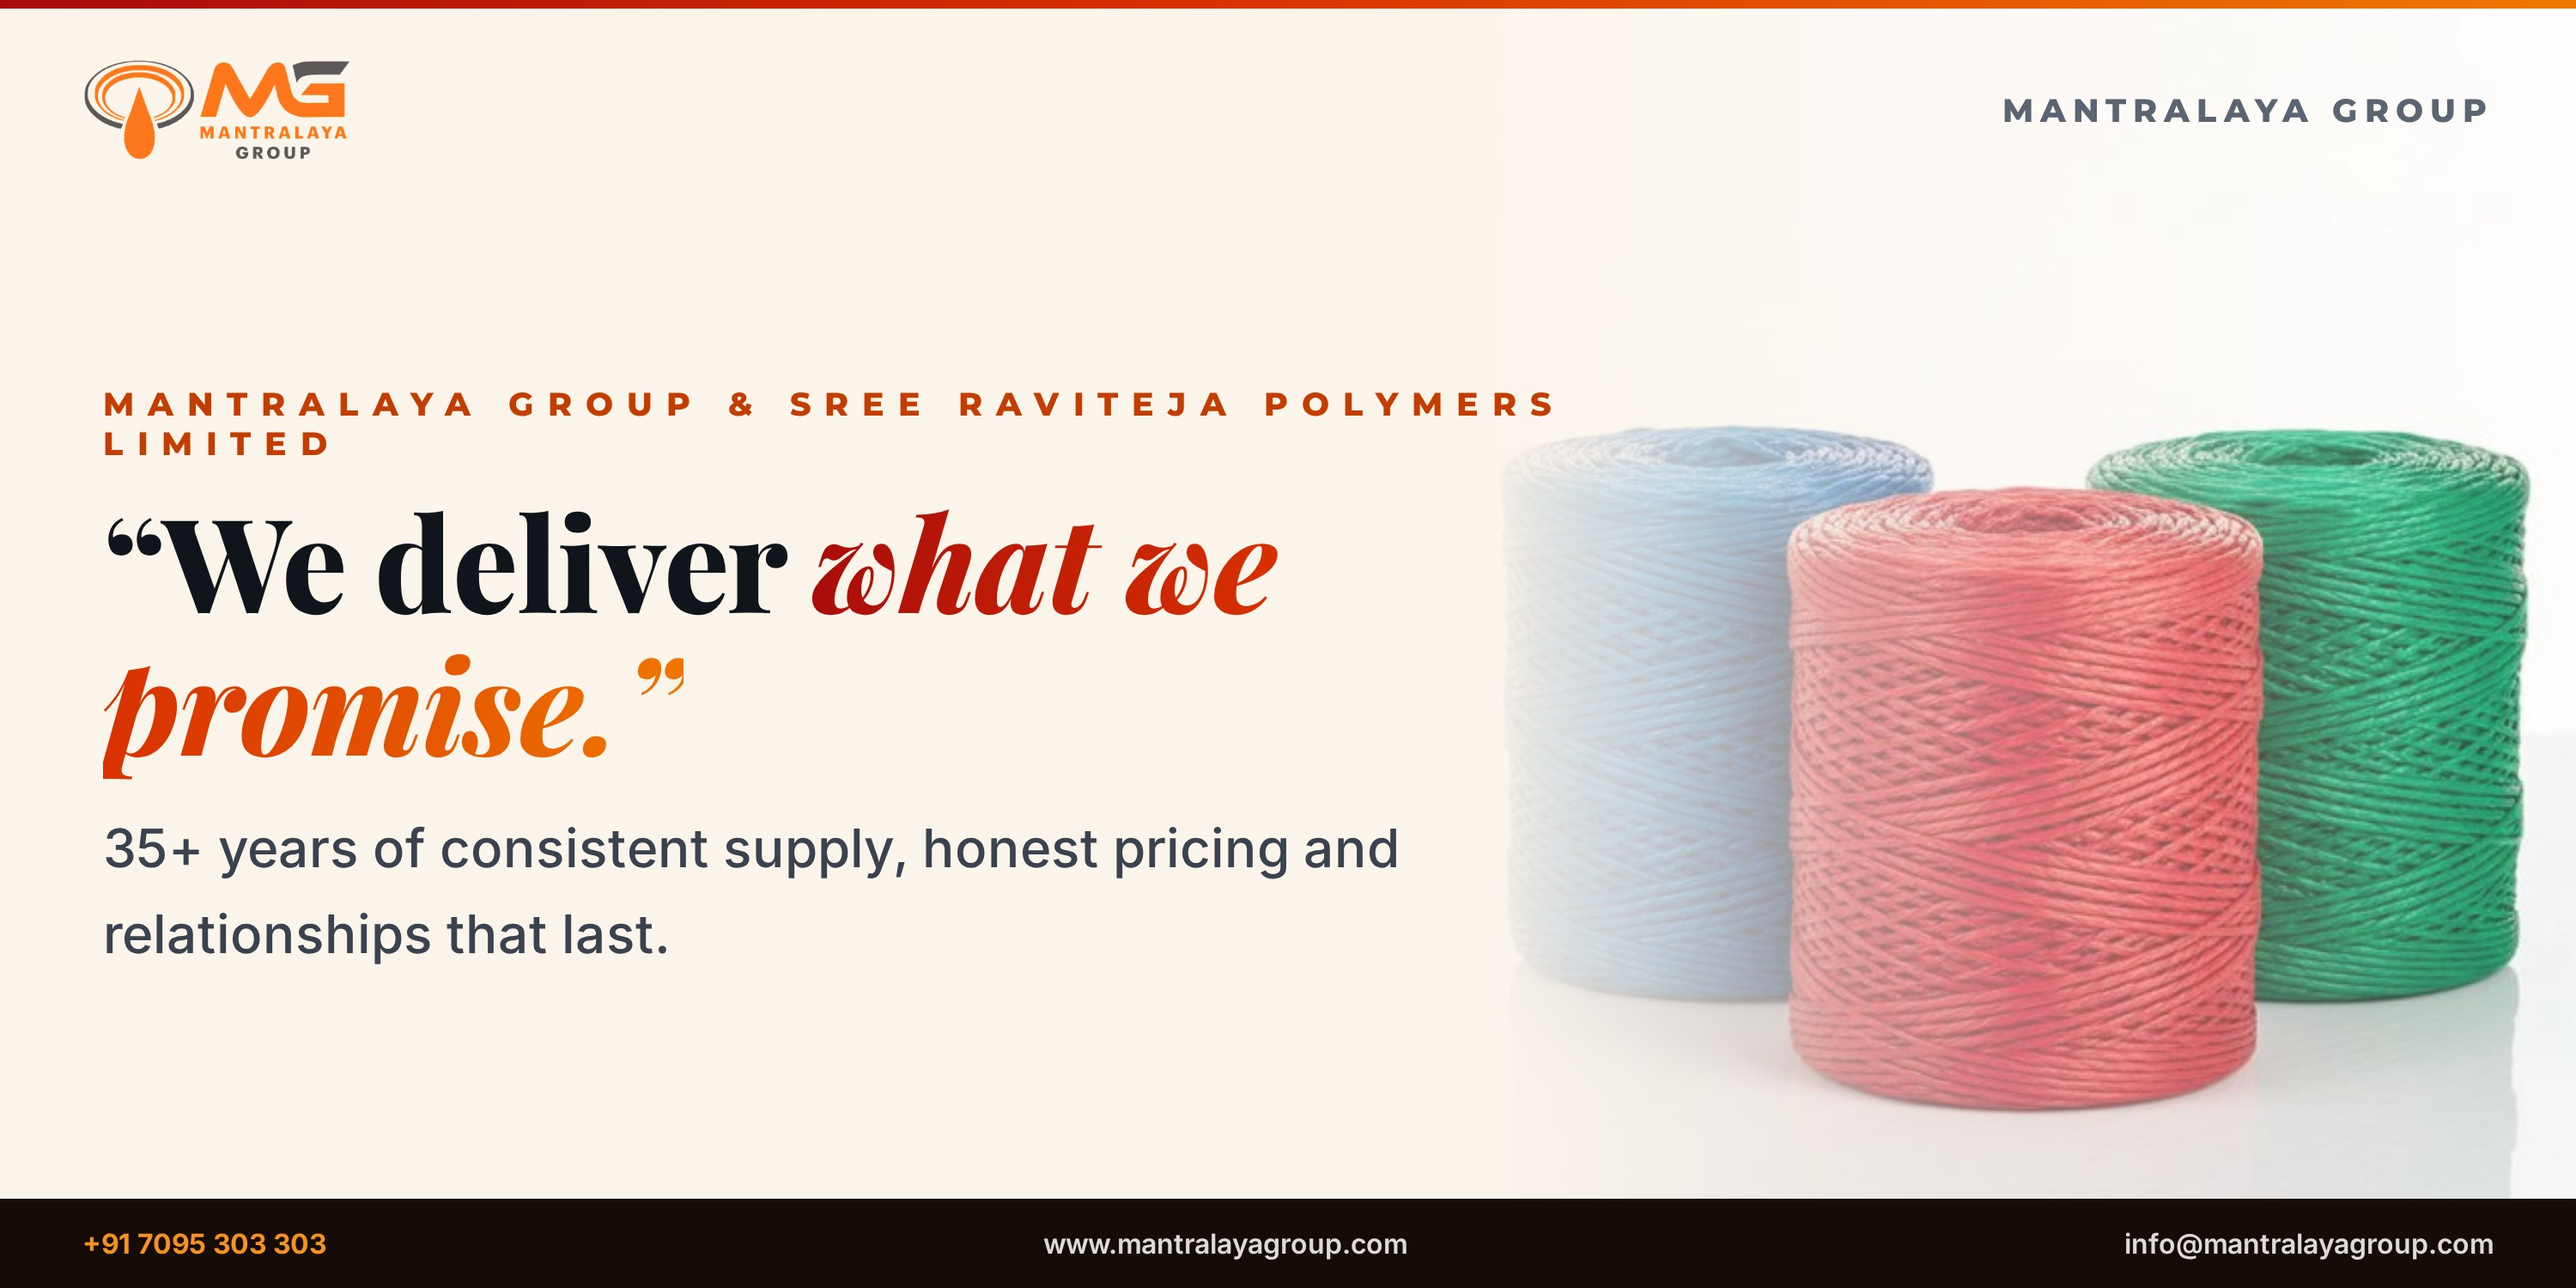
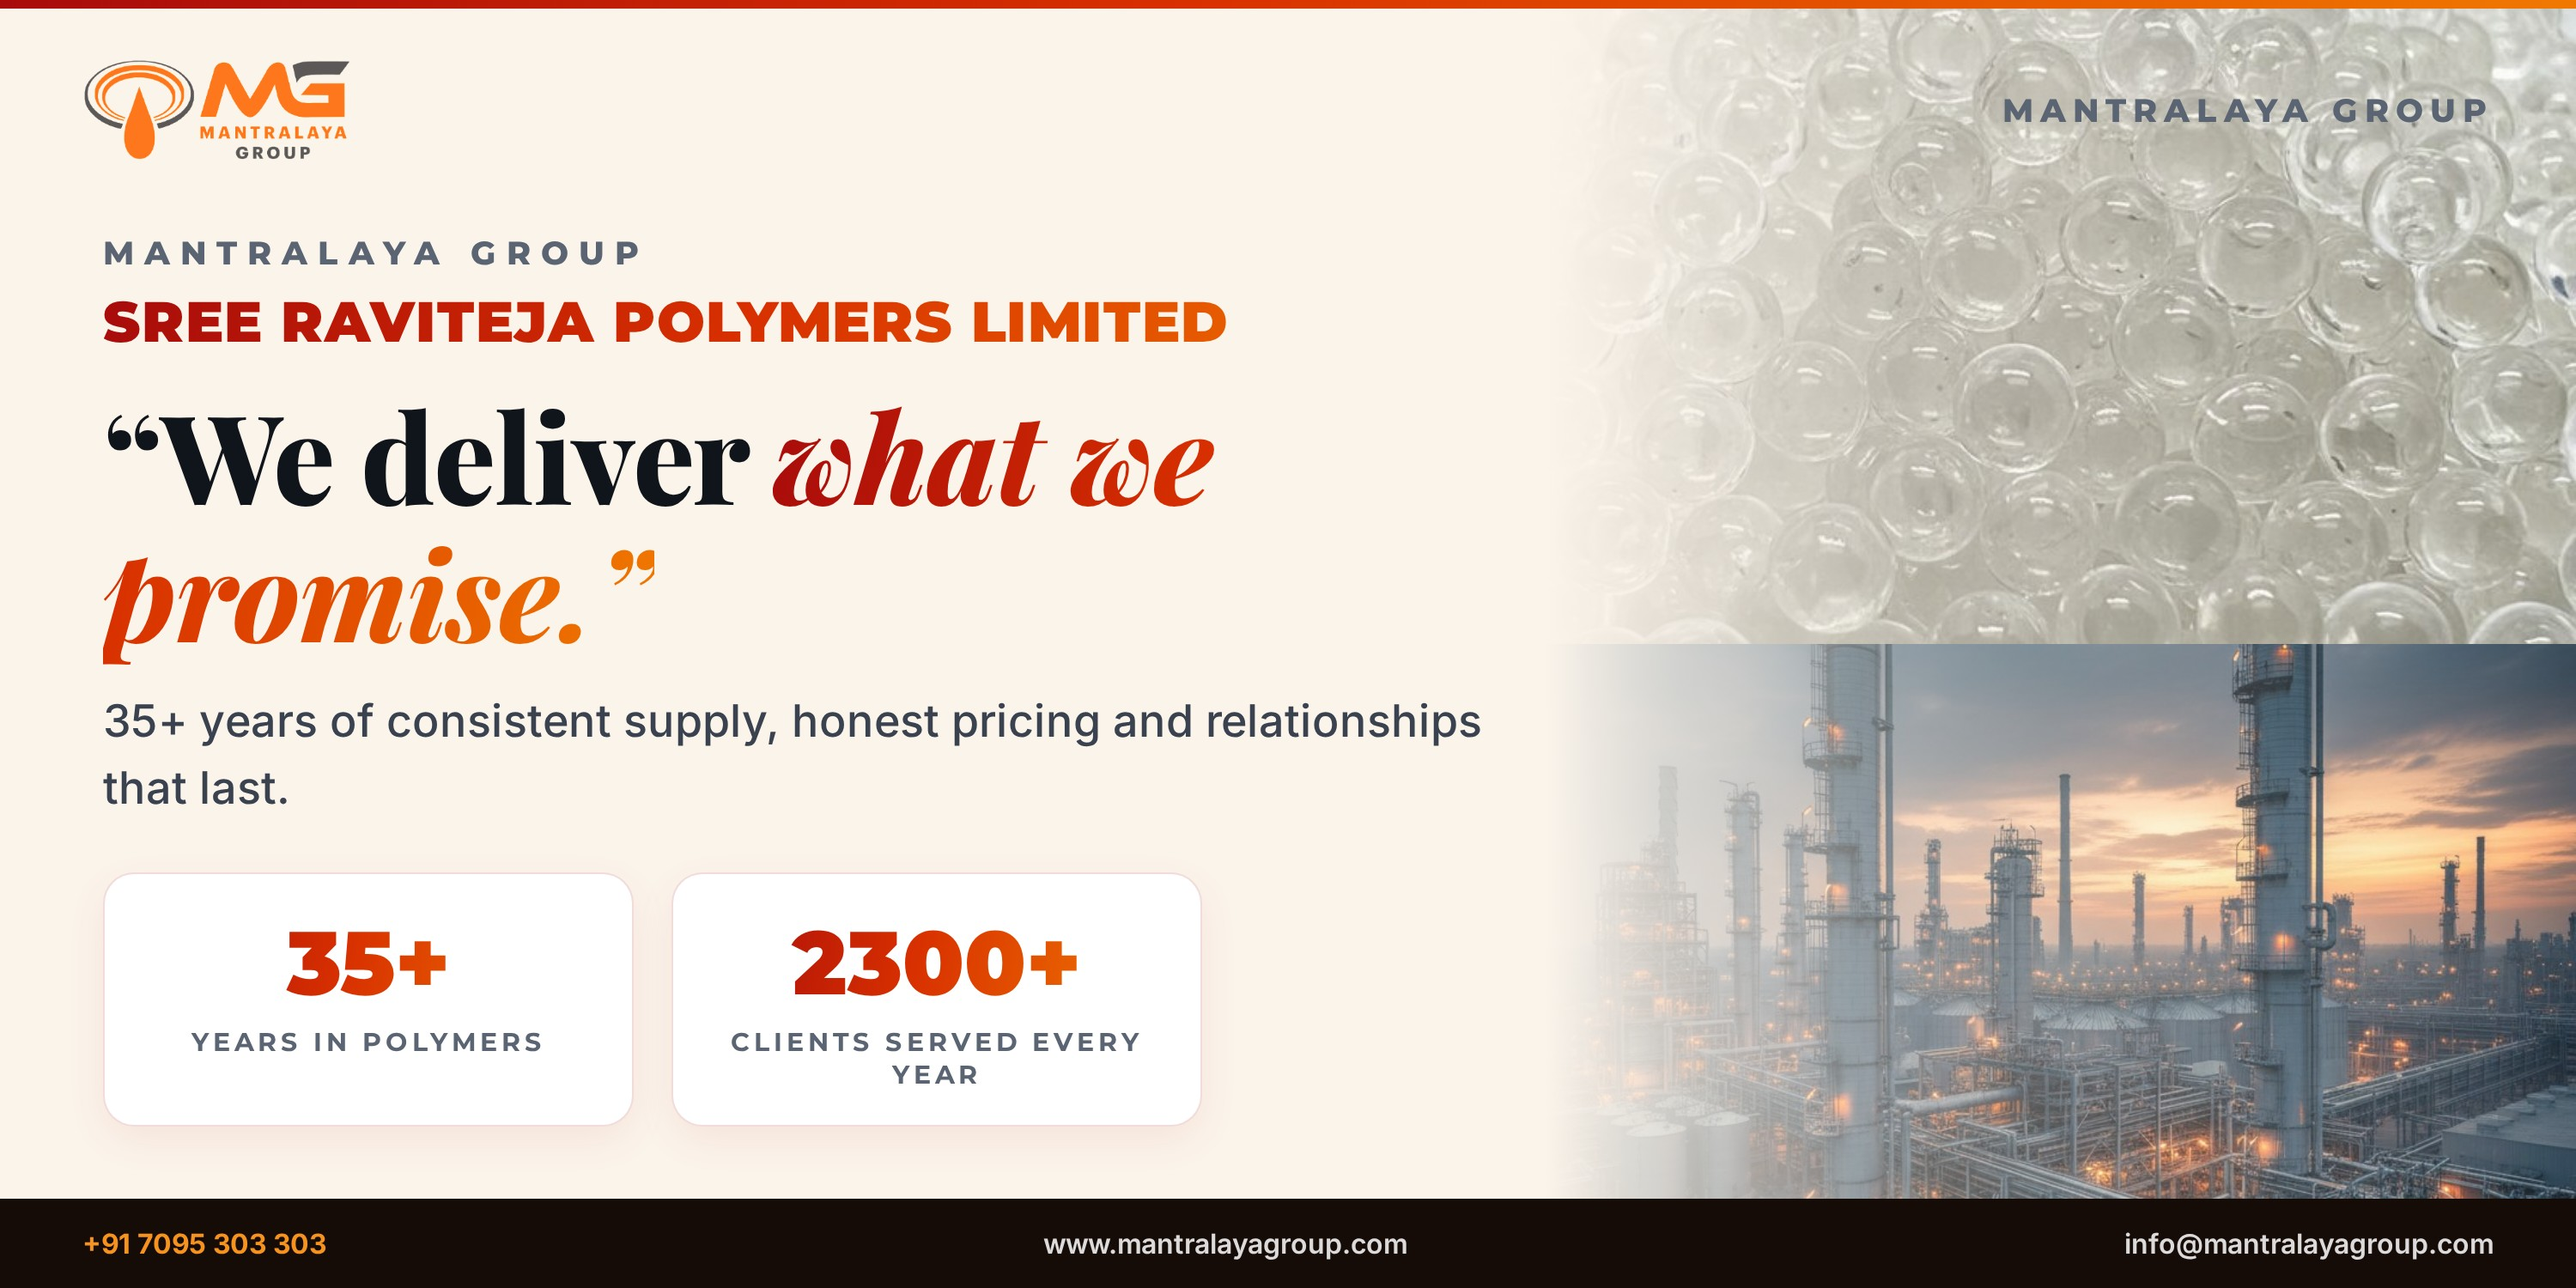
Poster 19: SRPL highlighted, stats 35+/2300+, granules + polymer plant photos replace sutli

diff --git a/posters/src/poster-19-promise--light.html b/posters/src/poster-19-promise--light.html
@@ -14,12 +14,23 @@ body{width:1500px;height:750px;overflow:hidden;position:relative;font-family:'Mo
 .bgimg::after{content:'';position:absolute;inset:0;background:linear-gradient(100deg, rgba(251,244,235,0.97) 0%, rgba(251,244,235,0.94) 45%, rgba(251,244,235,0.72) 100%)}
 .z{position:relative;z-index:4}
 </style></head><body><style>
-.wrap{flex:1;display:flex;flex-direction:column;justify-content:center;padding:20px 60px;position:relative;z-index:4;max-width:68%}
-.cap2{font-size:76px;margin-top:14px}
+.side{position:absolute;top:0;right:0;bottom:0;width:40%;z-index:1;display:flex;flex-direction:column}
+.side .im{flex:1;position:relative;overflow:hidden}
+.side .im img{width:100%;height:100%;object-fit:cover;display:block}
+.side::after{content:'';position:absolute;inset:0;background:linear-gradient(90deg,#FBF4EB 0%,rgba(251,244,235,0.4) 34%,rgba(251,244,235,0.05) 100%)}
+.wrap{flex:1;display:flex;flex-direction:column;justify-content:center;padding:20px 60px;position:relative;z-index:4;max-width:64%}
+.who1{font-size:19px;font-weight:800;letter-spacing:6px;color:#5A6472}
+.who2{margin-top:8px;font-size:33px;font-weight:900;letter-spacing:0.5px;background:linear-gradient(100deg,#A80B0B,#D83000 45%,#F07800);-webkit-background-clip:text;background-clip:text;color:transparent;}
+.cap2{font-size:72px;margin-top:18px;color:#10141B}
 .cap2 em{background:linear-gradient(100deg,#A80B0B,#D83000 45%,#F07800);-webkit-background-clip:text;background-clip:text;color:transparent;font-style:italic}
-.sub{margin-top:18px;font-family:'Inter',sans-serif;font-size:31px;font-weight:500;color:#3A4250;line-height:1.6}
-.extra{margin-top:26px}
-</style><div style="position:absolute;top:0;right:0;bottom:0;width:44%;z-index:1;">
-<img src="../../products/plastic-sutli.jpg" style="width:100%;height:100%;object-fit:cover;">
-<div style="position:absolute;inset:0;background:linear-gradient(90deg,#FBF4EB 0%,rgba(251,244,235,0.5) 40%,rgba(251,244,235,0.1) 100%);"></div></div><div class="rule"></div><div class="hdr"><img src="../../mg-logo.png"><div class="co">MANTRALAYA GROUP</div></div>
-<div class="wrap"><div class="label">MANTRALAYA GROUP &amp; SREE RAVITEJA POLYMERS LIMITED</div><div class="cap cap2">&ldquo;We deliver <em>what we promise.&rdquo;</em></div><div class="sub">35+ years of consistent supply, honest pricing and relationships that last.</div></div><div class="ftr"><span><b>+91 7095 303 303</b></span><span>www.mantralayagroup.com</span><span>info@mantralayagroup.com</span></div></body></html>
+.sub{margin-top:16px;font-family:'Inter',sans-serif;font-size:26px;font-weight:500;color:#3A4250;line-height:1.5}
+</style>
+<div class="side"><div class="im"><img src="../../products/natural-granules.jpg"></div><div class="im"><img src="../../products/polymer-plant.jpg"></div></div>
+<div class="rule"></div><div class="hdr"><img src="../../mg-logo.png"><div class="co">MANTRALAYA GROUP</div></div>
+<div class="wrap">
+<div class="who1">MANTRALAYA GROUP</div>
+<div class="who2">SREE RAVITEJA POLYMERS LIMITED</div>
+<div class="cap cap2">&ldquo;We deliver <em>what we promise.&rdquo;</em></div>
+<div class="sub">35+ years of consistent supply, honest pricing and relationships that last.</div>
+<div style="margin-top:30px;display:flex;gap:22px;max-width:640px;"><div style="flex:1;background:#fff;border:1px solid rgba(168,11,11,0.15);box-shadow:0 8px 24px rgba(168,11,11,0.07);border-radius:18px;padding:20px 24px;text-align:center;"><div style="font-size:52px;font-weight:900;background:linear-gradient(100deg,#A80B0B,#D83000 45%,#F07800);-webkit-background-clip:text;background-clip:text;color:transparent;">35+</div><div style="margin-top:5px;font-size:15px;font-weight:700;letter-spacing:2.5px;color:#5A6472;">YEARS IN POLYMERS</div></div><div style="flex:1;background:#fff;border:1px solid rgba(168,11,11,0.15);box-shadow:0 8px 24px rgba(168,11,11,0.07);border-radius:18px;padding:20px 24px;text-align:center;"><div style="font-size:52px;font-weight:900;background:linear-gradient(100deg,#A80B0B,#D83000 45%,#F07800);-webkit-background-clip:text;background-clip:text;color:transparent;">2300+</div><div style="margin-top:5px;font-size:15px;font-weight:700;letter-spacing:2.5px;color:#5A6472;">CLIENTS SERVED EVERY YEAR</div></div></div>
+</div><div class="ftr"><span><b>+91 7095 303 303</b></span><span>www.mantralayagroup.com</span><span>info@mantralayagroup.com</span></div></body></html>

diff --git a/posters/src/poster-19-promise--dark.html b/posters/src/poster-19-promise--dark.html
@@ -14,12 +14,23 @@ body{width:1500px;height:750px;overflow:hidden;position:relative;font-family:'Mo
 .bgimg::after{content:'';position:absolute;inset:0;background:linear-gradient(100deg, rgba(18,9,6,0.97) 0%, rgba(18,9,6,0.93) 45%, rgba(18,9,6,0.72) 100%)}
 .z{position:relative;z-index:4}
 </style></head><body><style>
-.wrap{flex:1;display:flex;flex-direction:column;justify-content:center;padding:20px 60px;position:relative;z-index:4;max-width:68%}
-.cap2{font-size:76px;margin-top:14px}
+.side{position:absolute;top:0;right:0;bottom:0;width:40%;z-index:1;display:flex;flex-direction:column}
+.side .im{flex:1;position:relative;overflow:hidden}
+.side .im img{width:100%;height:100%;object-fit:cover;display:block}
+.side::after{content:'';position:absolute;inset:0;background:linear-gradient(90deg,#150B07 0%,rgba(21,11,7,0.45) 34%,rgba(21,11,7,0.05) 100%)}
+.wrap{flex:1;display:flex;flex-direction:column;justify-content:center;padding:20px 60px;position:relative;z-index:4;max-width:64%}
+.who1{font-size:19px;font-weight:800;letter-spacing:6px;color:rgba(255,255,255,0.65)}
+.who2{margin-top:8px;font-size:33px;font-weight:900;letter-spacing:0.5px;background:linear-gradient(100deg,#FF6A2B,#F6921E 60%,#FFC46B);-webkit-background-clip:text;background-clip:text;color:transparent;}
+.cap2{font-size:72px;margin-top:18px;color:#fff}
 .cap2 em{background:linear-gradient(100deg,#FF6A2B,#F6921E 60%,#FFC46B);-webkit-background-clip:text;background-clip:text;color:transparent;font-style:italic}
-.sub{margin-top:18px;font-family:'Inter',sans-serif;font-size:31px;font-weight:500;color:rgba(255,255,255,0.82);line-height:1.6}
-.extra{margin-top:26px}
-</style><div style="position:absolute;top:0;right:0;bottom:0;width:44%;z-index:1;">
-<img src="../../products/plastic-sutli.jpg" style="width:100%;height:100%;object-fit:cover;">
-<div style="position:absolute;inset:0;background:linear-gradient(90deg,#150B07 0%,rgba(21,11,7,0.55) 40%,rgba(21,11,7,0.15) 100%);"></div></div><div class="rule"></div><div class="hdr"><img src="../../mg-logo-dark.png"><div class="co">MANTRALAYA GROUP</div></div>
-<div class="wrap"><div class="label">MANTRALAYA GROUP &amp; SREE RAVITEJA POLYMERS LIMITED</div><div class="cap cap2">&ldquo;We deliver <em>what we promise.&rdquo;</em></div><div class="sub">35+ years of consistent supply, honest pricing and relationships that last.</div></div><div class="ftr"><span><b>+91 7095 303 303</b></span><span>www.mantralayagroup.com</span><span>info@mantralayagroup.com</span></div></body></html>
+.sub{margin-top:16px;font-family:'Inter',sans-serif;font-size:26px;font-weight:500;color:rgba(255,255,255,0.82);line-height:1.5}
+</style>
+<div class="side"><div class="im"><img src="../../products/natural-granules.jpg"></div><div class="im"><img src="../../products/polymer-plant.jpg"></div></div>
+<div class="rule"></div><div class="hdr"><img src="../../mg-logo-dark.png"><div class="co">MANTRALAYA GROUP</div></div>
+<div class="wrap">
+<div class="who1">MANTRALAYA GROUP</div>
+<div class="who2">SREE RAVITEJA POLYMERS LIMITED</div>
+<div class="cap cap2">&ldquo;We deliver <em>what we promise.&rdquo;</em></div>
+<div class="sub">35+ years of consistent supply, honest pricing and relationships that last.</div>
+<div style="margin-top:30px;display:flex;gap:22px;max-width:640px;"><div style="flex:1;border:1px solid rgba(240,120,0,0.4);border-radius:18px;padding:20px 24px;text-align:center;"><div style="font-size:52px;font-weight:900;background:linear-gradient(100deg,#FF6A2B,#F6921E 60%,#FFC46B);-webkit-background-clip:text;background-clip:text;color:transparent;">35+</div><div style="margin-top:5px;font-size:15px;font-weight:700;letter-spacing:2.5px;color:rgba(255,255,255,0.7);">YEARS IN POLYMERS</div></div><div style="flex:1;border:1px solid rgba(240,120,0,0.4);border-radius:18px;padding:20px 24px;text-align:center;"><div style="font-size:52px;font-weight:900;background:linear-gradient(100deg,#FF6A2B,#F6921E 60%,#FFC46B);-webkit-background-clip:text;background-clip:text;color:transparent;">2300+</div><div style="margin-top:5px;font-size:15px;font-weight:700;letter-spacing:2.5px;color:rgba(255,255,255,0.7);">CLIENTS SERVED EVERY YEAR</div></div></div>
+</div><div class="ftr"><span><b>+91 7095 303 303</b></span><span>www.mantralayagroup.com</span><span>info@mantralayagroup.com</span></div></body></html>

diff --git a/posters/gen2.py b/posters/gen2.py
@@ -457,6 +457,37 @@ def loc_map_p(w,h,dark):
 <div class="up2">{upcomingpill(dark,15)}</div>
 </div>{FOOT}"""
 
+def promiseposter(w,h,dark):
+    """Poster 19 — promise quote + SRPL highlight + stats + granules & plant photos."""
+    gt = GT_W if dark else GT_D
+    fg = '#fff' if dark else '#10141B'
+    box = 'border:1px solid rgba(240,120,0,0.4)' if dark else 'background:#fff;border:1px solid rgba(168,11,11,0.15);box-shadow:0 8px 24px rgba(168,11,11,0.07)'
+    lab = 'rgba(255,255,255,0.7)' if dark else '#5A6472'
+    def cell(v,l):
+        return f'<div style="flex:1;{box};border-radius:18px;padding:20px 24px;text-align:center;"><div style="font-size:52px;font-weight:900;{gt}">{v}</div><div style="margin-top:5px;font-size:15px;font-weight:700;letter-spacing:2.5px;color:{lab};">{l}</div></div>'
+    stats = '<div style="margin-top:30px;display:flex;gap:22px;max-width:640px;">'+cell('35+','YEARS IN POLYMERS')+cell('2300+','CLIENTS SERVED EVERY YEAR')+'</div>'
+    return base(w,h,dark)+f"""<style>
+.side{{position:absolute;top:0;right:0;bottom:0;width:40%;z-index:1;display:flex;flex-direction:column}}
+.side .im{{flex:1;position:relative;overflow:hidden}}
+.side .im img{{width:100%;height:100%;object-fit:cover;display:block}}
+.side::after{{content:'';position:absolute;inset:0;background:linear-gradient(90deg,{'#150B07' if dark else '#FBF4EB'} 0%,{'rgba(21,11,7,0.45)' if dark else 'rgba(251,244,235,0.4)'} 34%,{'rgba(21,11,7,0.05)' if dark else 'rgba(251,244,235,0.05)'} 100%)}}
+.wrap{{flex:1;display:flex;flex-direction:column;justify-content:center;padding:20px 60px;position:relative;z-index:4;max-width:64%}}
+.who1{{font-size:19px;font-weight:800;letter-spacing:6px;color:{'rgba(255,255,255,0.65)' if dark else '#5A6472'}}}
+.who2{{margin-top:8px;font-size:33px;font-weight:900;letter-spacing:0.5px;{gt}}}
+.cap2{{font-size:72px;margin-top:18px;color:{fg}}}
+.cap2 em{{{gt}font-style:italic}}
+.sub{{margin-top:16px;font-family:'Inter',sans-serif;font-size:26px;font-weight:500;color:{'rgba(255,255,255,0.82)' if dark else '#3A4250'};line-height:1.5}}
+</style>
+<div class="side"><div class="im"><img src="{P('natural-granules')}"></div><div class="im"><img src="{P('polymer-plant')}"></div></div>
+{hdr(dark)}
+<div class="wrap">
+<div class="who1">MANTRALAYA GROUP</div>
+<div class="who2">SREE RAVITEJA POLYMERS LIMITED</div>
+<div class="cap cap2">&ldquo;We deliver <em>what we promise.&rdquo;</em></div>
+<div class="sub">35+ years of consistent supply, honest pricing and relationships that last.</div>
+{stats}
+</div>{FOOT}"""
+
 def build(dark):
     v = {}
     em = lambda t: f"<em>{t}</em>"
@@ -494,8 +525,7 @@ def build(dark):
       'Scan to browse the complete catalogue at productsandstores.com.',
       extra='<div class="extra"><img src="../qr-ps.png" style="width:190px;height:190px;border-radius:14px;border:5px solid #D83000;"></div>',capsize=52))
     v['poster-14-trust'] = (1650,750, message(1650,750,dark,'THE MANTRALAYA GROUP',f"Trust, {em('measured.')}",'',capsize=72,extra=statextra(dark)))
-    v['poster-19-promise'] = (1500,750, message(1500,750,dark,'MANTRALAYA GROUP &amp; SREE RAVITEJA POLYMERS LIMITED',
-      f"&ldquo;We deliver {em('what we promise.&rdquo;')}",'35+ years of consistent supply, honest pricing and relationships that last.',capsize=76,sidephoto='plastic-sutli'))
+    v['poster-19-promise'] = (1500,750, promiseposter(1500,750,dark))
     v['poster-20-branches'] = (1650,750, message(1650,750,dark,'OUR NETWORK',f"Wherever you build, {em('we&rsquo;re nearby.')}",'',extra=branchextra(dark)))
     v['poster-locations-a'] = (1500,900, loc_a(1500,900,dark))
     v['poster-locations-b'] = (1650,750, loc_b(1650,750,dark))
